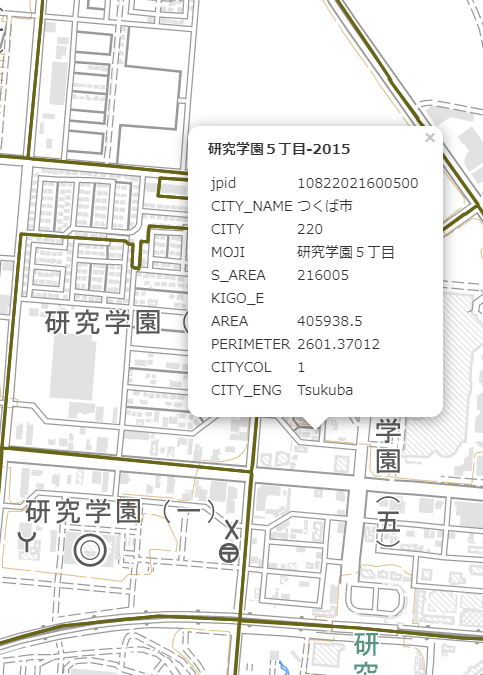
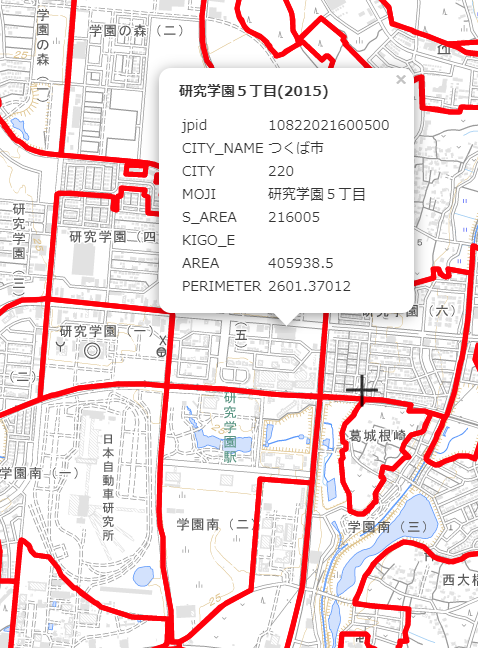
correct code and tractoverlay map

diff --git a/CensusTractTechnical/Creating-corresponce-map-for-Tsukuba-plans-and-census-tracts.html b/CensusTractTechnical/Creating-corresponce-map-for-Tsukuba-plans-and-census-tracts.html
@@ -87,20 +87,21 @@ geographic CRS: WGS 84
 <p>The column codes are defined in <a href="origshapefiles.html">origshapefiles.html</a> Tsukuba City is CITY 220, which 
 can be used to select only Tsukuba census tracts.</p>
 <div><pre><code>&gt; # get Tsukuba tracts
-&gt; tsukubaMP2015&lt;- ib2015gjsn[which(CITY == 220),]
-&gt; tsukubaMP2015&lt;- ib2015gjsn[which(ib2015gjsn$CITY == 220),]</code></pre></div>
+&gt; tsukubaMP2015&lt;- ib2015gjsn[which(ib2015gjsn$CITY == 220),c("jpid","CITY_NAME","CITY","MOJI" ,"S_AREA"     
+,"KIGO_E", "AREA" , "PERIMETER" ,"geometry")]
+</code></pre></div>
 <p>For the shape outlines to be visualized on https://maps.gsi.go.jp, drawing attributes must be added.</p>
 <div><pre><code>&gt; # add properties for maps.gsi.go.jp
-&gt; tsukubaMP2015$name &lt;- paste(tsukubaMP2015$MOJI,"2015",sep="-")
-&gt; tsukubaMP2015$X_color &lt;- "#666600" # names starting with underscore not allowed in R
+&gt; tsukubaMP2015$X_name &lt;- paste(tsukubaMP2015$MOJI,"2015",sep="-")
+&gt; tsukubaMP2015$X_color &lt;- "#ff0000" # names starting with underscore not allowed in R
 &gt; tsukubaMP2015$X_opacity &lt;- 1
 &gt; tsukubaMP2015$X_weight &lt;- 3
 &gt; tsukubaMP2015$X_fillColor &lt;- "#666600"
 &gt; tsukubaMP2015$X_fillOpacity &lt;- 0
 &gt; # change the attribute names to match maps.gsi.go.jp
 &gt; colnames(tsukubaMP2015) &lt;- c("jpid","CITY_NAME","CITY","MOJI" ,"S_AREA"     
-    ,"KIGO_E", "AREA" , "PERIMETER" ,"geometry","CITYCOL" ,"CITY_ENG","name"         
-    , "_color" ,"_opacity" ,"_weight","_fillColor","_fillOpacity")</code></pre></div>
+,"KIGO_E", "AREA" , "PERIMETER" ,"geometry","name"         
+, "_color" ,"_opacity" ,"_weight","_fillColor","_fillOpacity")</code></pre></div>
     <p>Finally write this data frame as a geojson file.</p>
     <div><pre><code>&gt; dsnyko &lt;- "TsukubaMasterPlan-2015.geojson"
 &gt; st_write(tsukubaMP2015, dsnyko, delete_dsn=TRUE,layer="CensusTracts")</code></pre></div>
